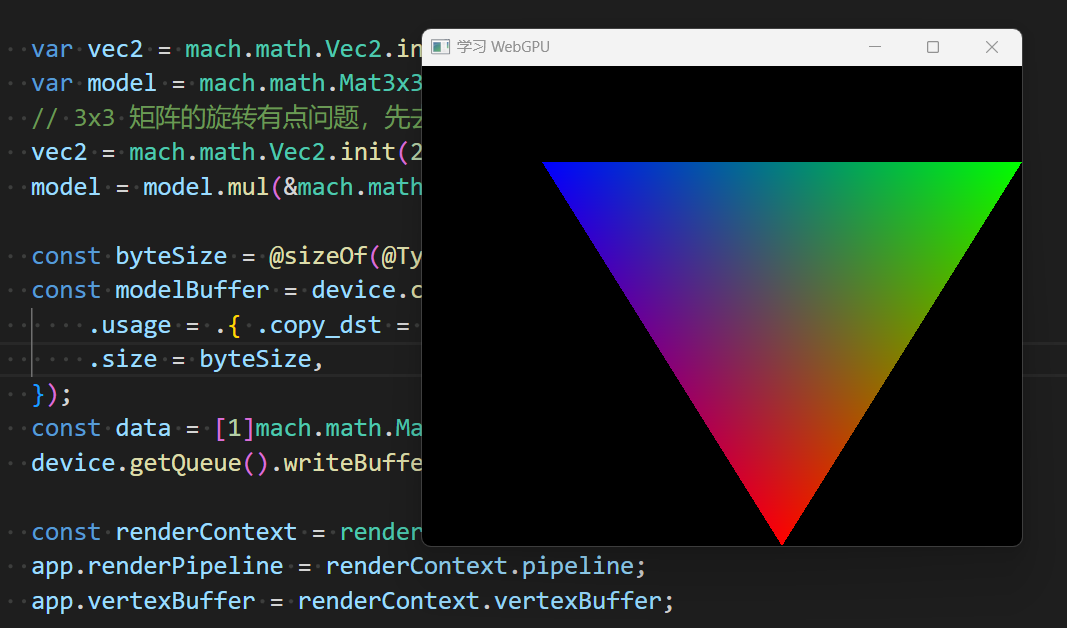
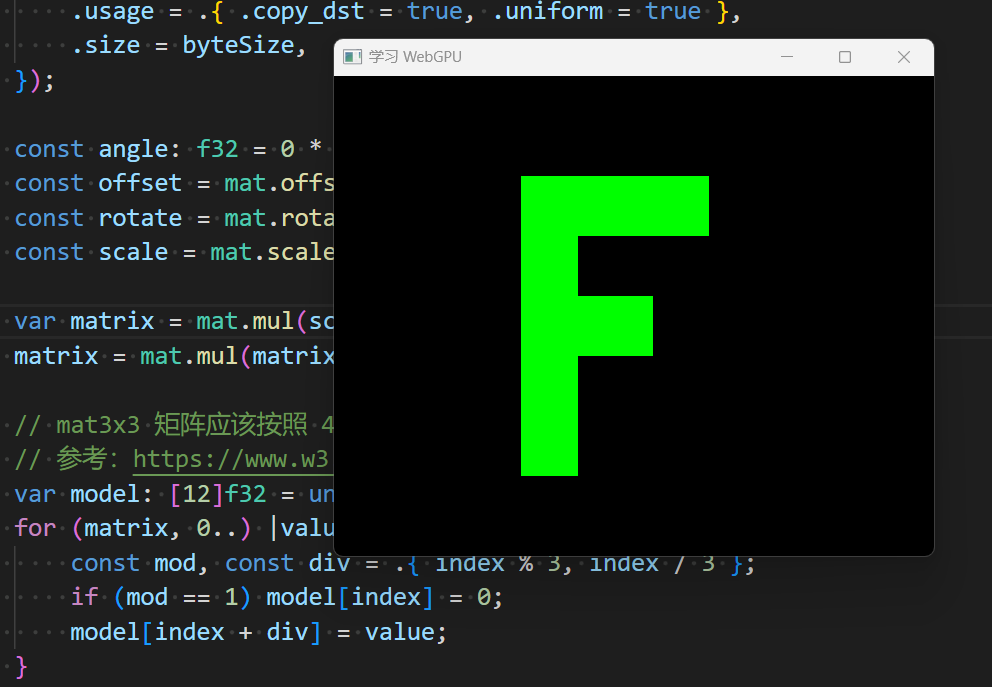
提交博客

diff --git a/2023/202312/0528-WebGPU-增加投影矩阵.md b/2023/202312/0528-WebGPU-增加投影矩阵.md
@@ -1,4 +1,4 @@
-# 0527-WebGPU-显示字母 F
+# 0528-WebGPU-增加投影矩阵
 
 ## 环境
 
@@ -17,7 +17,7 @@
 
 ### 目标
 
-修改顶点和索引数据，显示一个大写的 F 字母，和教程保持一致。
+将着色器中的变换移除，使用投影矩阵实现相同的功能。
 
 ## shader.wgsl
 
@@ -36,25 +36,9 @@ struct VertexOutput {
 @vertex
 fn vs_main(in: VertexInput) -> VertexOutput {
     var out: VertexOutput;
-    let xy = (model * in.position.xyz).xy;
+    let xy = (model * vec3f(in.position.xy, 1)).xy;
 
-    let position = (model * vec3f(in.position.xy, 1)).xy;
-
-    let resolution = vec2f(640,480);
-    // convert the position from pixels to a 0.0 to 1.0 value
-    let zeroToOne = position / resolution;
-
-    // convert from 0 <-> 1 to 0 <-> 2
-    let zeroToTwo = zeroToOne * 2.0;
-
-    // covert from 0 <-> 2 to -1 <-> +1 (clip space)
-    let flippedClipSpace = zeroToTwo - 1.0;
-
-    // flip Y
-    let clipSpace = flippedClipSpace * vec2f(1, -1);
-
-    out.position = vec4f(clipSpace, 0.0, 1.0);
-
+    out.position = vec4f(xy, 0.0, 1.0);
     out.color = vec4f(0, 1, 0, 1);
     return out;
 }
@@ -67,107 +51,7 @@ fn fs_main(in: VertexOutput) -> @location(0) vec4f {
 
 ## render.zig
 
-```zig
-const std = @import("std");
-const mach = @import("mach");
-
-pub const RenderContext = struct {
-    vertexBuffer: *mach.gpu.Buffer,
-    indexBuffer: *mach.gpu.Buffer,
-    pipeline: *mach.gpu.RenderPipeline,
-
-    pub fn release(self: *RenderContext) void {
-        self.vertexBuffer.release();
-        self.indexBuffer.release();
-        self.pipeline.release();
-    }
-};
-
-pub const vertexData = [_]f32{
-    // left column
-    0,   0,
-    30,  0,
-    0,   150,
-    30,  150,
-
-    // top rung
-    30,  0,
-    100, 0,
-    30,  30,
-    100, 30,
-
-    // middle rung
-    30,  60,
-    70,  60,
-    30,  90,
-    70,  90,
-};
-
-pub const indexData = [_]u32{
-    0, 1, 2, 2, 1, 3, // left column
-    4, 5, 6, 6, 5, 7, // top run
-    8, 9, 10, 10, 9, 11, // middle run
-};
-
-pub fn createRenderPipeline() RenderContext {
-    const device = mach.core.device;
-
-    // 编译 shader
-    const source = @embedFile("shader.wgsl");
-    const module = device.createShaderModuleWGSL("shader.wgsl", source);
-    defer module.release();
-
-    // 顶点缓冲区
-    const vertexBuffer = device.createBuffer(&.{
-        .label = "vertex",
-        .usage = .{ .copy_dst = true, .vertex = true },
-        .size = @sizeOf(@TypeOf(vertexData)),
-    });
-
-    // 索引缓冲区
-    const indexBuffer = device.createBuffer(&.{
-        .label = "index",
-        .size = @sizeOf(@TypeOf(indexData)),
-        .usage = .{ .index = true, .copy_dst = true },
-    });
-
-    // 将 CPU 内存中的数据复制到 GPU 内存中
-    mach.core.queue.writeBuffer(vertexBuffer, 0, &vertexData);
-    mach.core.queue.writeBuffer(indexBuffer, 0, &indexData);
-
-    const vertexLayout = mach.gpu.VertexBufferLayout.init(.{
-        .array_stride = @sizeOf(f32) * 2,
-        .attributes = &.{
-            .{ .format = .float32x2, .offset = 0, .shader_location = 0 },
-        },
-    });
-
-    const vertex = mach.gpu.VertexState.init(.{
-        .module = module,
-        .entry_point = "vs_main",
-        .buffers = &.{vertexLayout},
-    });
-
-    // 片段着色器状态
-    const fragment = mach.gpu.FragmentState.init(.{
-        .module = module,
-        .entry_point = "fs_main",
-        .targets = &.{.{ .format = mach.core.descriptor.format }},
-    });
-
-    // 创建渲染管线
-    const descriptor = mach.gpu.RenderPipeline.Descriptor{
-        .fragment = &fragment,
-        .vertex = vertex,
-    };
-    const pipeline = device.createRenderPipeline(&descriptor);
-    return .{
-        .vertexBuffer = vertexBuffer,
-        .indexBuffer = indexBuffer,
-        .pipeline = pipeline,
-    };
-}
-```
+无变化。
 
 ## mat.zig
 
@@ -203,13 +87,22 @@ pub fn init(app: *App) !void {
         .size = byteSize,
     });
 
-    const angle: f32 = 10 * std.math.pi / 180.0;
+    const scaleBy1OverResolutionMatrix = mat.scale(1.0 / 640.0, 1.0 / 480.0);
+    const scaleBy2Matrix = mat.scale(2, 2);
+    const translateByMinus1 = mat.offset(-1, -1);
+    const scaleBy1Minus1 = mat.scale(1, -1);
+
+    const angle: f32 = 0 * std.math.pi / 180.0;
     const offset = mat.offset(200, 100);
     const rotate = mat.rotate(angle);
     const scale = mat.scale(2, 2);
 
-    var matrix = mat.mul(scale, rotate);
+    var matrix = mat.mul(scaleBy1Minus1, translateByMinus1);
+    matrix = mat.mul(matrix, scaleBy2Matrix);
+    matrix = mat.mul(matrix, scaleBy1OverResolutionMatrix);
     matrix = mat.mul(matrix, offset);
+    matrix = mat.mul(matrix, rotate);
+    matrix = mat.mul(matrix, scale);
 
     // mat3x3 矩阵应该按照 48 字节对齐
     // 参考：https://www.w3.org/TR/WGSL/#alignment-and-size
@@ -288,12 +181,12 @@ pub fn update(app: *App) !bool {
 
 ## 效果
 
-![显示字母 F][1]
+![投影矩阵][1]
 
 ## 总结
 
-修改成和教程一致，显示一个大写的字母 F。
+增加投影矩阵。
 
-[1]: images/webgpu23.png
+[1]: images/webgpu24.png
 
 ## 附录
